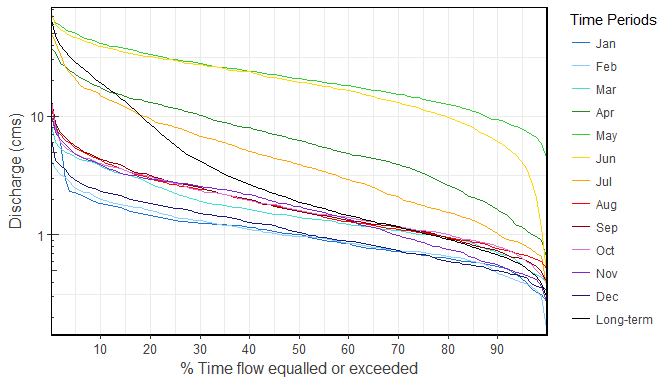
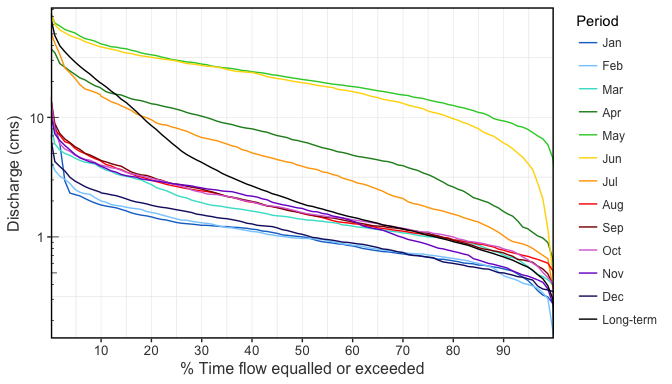
updated README

diff --git a/README.md b/README.md
@@ -22,8 +22,8 @@ Useful features of functions include:
 -   the integration of the `tidyhydat` package to pull streamflow data from a Water Survey of Canada [HYDAT](https://www.canada.ca/en/environment-climate-change/services/water-overview/quantity/monitoring/survey/data-products-services/national-archive-hydat.html) database for analyses;
 -   arguments for filtering of years and months in analyses and plotting (reducing need to tidy data beforehand);
 -   choosing water years for analyses instead of calendar years (and choice of start month);
--   selecting for rolling n-day averages (e.g. 7-day rolling average);
--   customizing how missing dates are handled.
+-   selecting for rolling day averages (e.g. 7-day rolling average);
+-   choosing how missing dates are handled.
 
 Installation
 ------------
@@ -59,7 +59,7 @@ str(data)
 #>  $ Value: num  3 0.94 0.385 0.241 0.207 ...
 ```
 
-Alternatively, you can directly extract a HYDAT flow data frame directly from a HYDAT database by listing HYDAT station numbers in the `station_number` argument (ex. `station_number = "08NM116"` or `station_number = c("08NM116", "08NM242")`). A data frame of daily streamflow data for all stations listed will be extracted using `tidyhydat`.
+Alternatively, you can directly extract a HYDAT flow data set directly from a HYDAT database by listing HYDAT station numbers in the `station_number` argument (ex. `station_number = "08NM116"` or `station_number = c("08NM116", "08NM242")`). A data frame of daily streamflow data for all stations listed will be extracted using `tidyhydat`.
 
 This package allows for multiple stations (or other groupings such as time-periods of a flow record (ex. pre/post an event)) to be analyzed in many of the functions provided station identifiers are provided using the `groups` column argument (defaults to STATION\_NUMBER). If grouping column doesn't exist or is improperly named, then all values listed in the `values` column will be summarized. Note that the plotting functions do not use the `groups` arguments (as just one plot is typically produced), so just one station/group should be provided.
 
@@ -107,8 +107,28 @@ Examples
 To determine the summary statistics of an entire dataset and by month (mean, median, maximum, minimum, and some percentiles) you can use the `calc_longterm_stats()` function. If the 'Mission Creek near East Kelowna' hydrometric station is of interest you can list the station number in the `HYDAT` argument to obtain the data (if `tidyhydat` and HYDAT are installed).
 
 ``` r
-#calc_longterm_stats(data = "08NM116", start_year = 1981, end_year = 2010,
-#                    custom_months = 7:9, custom_months_label = "Summer")
+calc_longterm_stats(station_number = "08NM116", 
+                    start_year = 1981, 
+                    end_year = 2010,
+                    custom_months = 7:9, 
+                    custom_months_label = "Summer")
+#> # A tibble: 14 x 8
+#>    STATION_NUMBER Month      Mean Median Maximum Minimum   P10   P90
+#>  * <chr>          <fct>     <dbl>  <dbl>   <dbl>   <dbl> <dbl> <dbl>
+#>  1 08NM116        Jan        1.22  1.00     9.50   0.160 0.540  1.85
+#>  2 08NM116        Feb        1.16  0.970    4.41   0.140 0.474  1.99
+#>  3 08NM116        Mar        1.85  1.40     9.86   0.380 0.705  3.80
+#>  4 08NM116        Apr        8.32  6.26    37.9    0.505 1.63  17.5 
+#>  5 08NM116        May       23.6  20.8     74.4    3.83  9.33  41.2 
+#>  6 08NM116        Jun       21.5  19.5     84.5    0.450 6.10  38.9 
+#>  7 08NM116        Jul        6.48  3.90    54.5    0.332 1.02  15.0 
+#>  8 08NM116        Aug        2.13  1.57    13.3    0.427 0.775  4.29
+#>  9 08NM116        Sep        2.19  1.58    14.6    0.364 0.735  4.35
+#> 10 08NM116        Oct        2.10  1.60    15.2    0.267 0.794  3.98
+#> 11 08NM116        Nov        2.04  1.73    11.7    0.260 0.560  3.90
+#> 12 08NM116        Dec        1.30  1.05     7.30   0.342 0.500  2.33
+#> 13 08NM116        Long-term  6.17  1.89    84.5    0.140 0.680 19.3 
+#> 14 08NM116        Summer     3.61  1.98    54.5    0.332 0.799  7.64
 ```
 
 ### Plotting example 1: daily summary statistics
@@ -116,22 +136,27 @@ To determine the summary statistics of an entire dataset and by month (mean, med
 To visualize the daily streamflow patterns on an annual basis, the `plot_daily_stats()` function will plot out various summary statistics for each day of the year. Data can also be filtered for certain years of interest (a 1981-2010 normals period for this example) using the `start_year` and `end_year` arguments. Multiple plots are produced with this function, so this example plots just the summary statistics (`[1]`).
 
 ``` r
-#plot_daily_stats(data = "08NM116",
-#                 start_year = 1981,
-#                 end_year = 2010,
-#                 log_discharge = TRUE,
-#                 include_year = 1991)
+plot_daily_stats(station_number = "08NM116",
+                 start_year = 1981,
+                 end_year = 2010,
+                 log_discharge = TRUE,
+                 include_year = 1991,
+                 ignore_missing = TRUE)
 ```
+
+![](tools/readme/README-plot1-1.png)
 
 ### Plotting example 2: flow duration curves
 
 Flow duration curves can be produced using the `plot_flow_duration()` function.
 
 ``` r
-#plot_flow_duration(data = "08NM116",
-#                   start_year = 1981,
-#                   end_year = 2010)
+plot_flow_duration(station_number = "08NM116",
+                   start_year = 1981,
+                   end_year = 2010)
 ```
+
+![](tools/readme/README-plot2-1.png)
 
 ### Analysis example: low-flow frequency analysis
 
